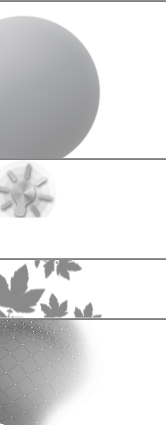
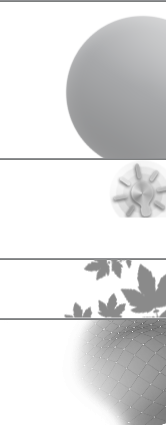
Beta 0.37 - SF settings & graph reversal

diff --git a/Shader Forge/Assets/ShaderForge/Editor/Code/SF_Editor.cs b/Shader Forge/Assets/ShaderForge/Editor/Code/SF_Editor.cs
@@ -855,8 +855,10 @@ namespace ShaderForge {
 			pRect.x = separatorLeft.rect.x + separatorLeft.rect.width;
 
 
-
-			pRect.width = separatorRight.rect.x - separatorLeft.rect.x - separatorLeft.rect.width;
+			if(SF_Settings.ShowNodeSidebar)
+				pRect.width = separatorRight.rect.x - separatorLeft.rect.x - separatorLeft.rect.width;
+			else
+				pRect.width = Screen.width - separatorLeft.rect.x - separatorLeft.rect.width;
 			//GUI.Box( new Rect( 300, 0, 512, 32 ), pRect.ToString() );
 
 			if( SF_Debug.nodes ) {
@@ -886,16 +888,19 @@ namespace ShaderForge {
 			//pRect.x += pRect.width;
 			//pRect.width = wSeparator;
 			//VerticalSeparatorDraggable(ref rightWidth, pRect );
+			if(SF_Settings.ShowNodeSidebar){
+				separatorRight.MinX = (int)fullRect.width - 150;
+				separatorRight.MaxX = (int)fullRect.width - 32;
+				separatorRight.Draw( (int)pRect.y, (int)pRect.height );
 
-			separatorRight.MinX = (int)fullRect.width - 150;
-			separatorRight.MaxX = (int)fullRect.width - 32;
-			separatorRight.Draw( (int)pRect.y, (int)pRect.height );
 
+				pRect.x += pRect.width + separatorRight.rect.width;
+				pRect.width = fullRect.width - separatorRight.rect.x - separatorRight.rect.width;
 
-			pRect.x += pRect.width + separatorRight.rect.width;
-			pRect.width = fullRect.width - separatorRight.rect.x - separatorRight.rect.width;
-			SF_GUI.FillBackground( pRect );
-			nodeBrowser.OnLocalGUI( pRect );
+				SF_GUI.FillBackground( pRect );
+				nodeBrowser.OnLocalGUI( pRect );
+			}
+
 
 
 
@@ -1825,8 +1830,10 @@ namespace ShaderForge {
 				SF_Settings.DrawNodePreviews = GUI.Toggle( btnRect, SF_Settings.DrawNodePreviews, "Auto-Update Node Previews" );
 				btnRect = btnRect.MovedDown();
 				SF_Settings.QuickPickWithWheel = GUI.Toggle( btnRect, SF_Settings.QuickPickWithWheel, "Use scroll in the quickpicker" );
-
-
+				btnRect = btnRect.MovedDown();
+				SF_Settings.ShowVariableSettings = GUI.Toggle( btnRect, SF_Settings.ShowVariableSettings, "Show variable name & precision" );
+				btnRect = btnRect.MovedDown();
+				SF_Settings.ShowNodeSidebar = GUI.Toggle( btnRect, SF_Settings.ShowNodeSidebar, "Show node browser panel" );
 				btnRect.y += 4;
 			}
 

diff --git a/Shader Forge/Assets/ShaderForge/Editor/Code/_Utility/GUILines.cs b/Shader Forge/Assets/ShaderForge/Editor/Code/_Utility/GUILines.cs
@@ -140,7 +140,7 @@ namespace ShaderForge {
 			Vector2 start = startCon.GetConnectionPoint();
 			Vector2 end = endCon.GetConnectionPoint();
 
-			bool reversed = (start.x > end.x);
+			bool reversed = (start.x < end.x);
 
 			Vector2[] points;
 
@@ -183,8 +183,8 @@ namespace ShaderForge {
 				Vector2 tangentVec = new Vector2(tangentMag, 0f);
 
 
-				Vector2 bAp1 = bAp0 + tangentVec; 			// Start Tangent
-				Vector2 bAp2 = bAp3 + tangentVec; 			// End Tangent
+				Vector2 bAp1 = bAp0 - tangentVec; 			// Start Tangent
+				Vector2 bAp2 = bAp3 - tangentVec; 			// End Tangent
 
 
 				for(int i=0;i<pCount;i++){
@@ -200,8 +200,8 @@ namespace ShaderForge {
 				tangentMag = Mathf.Abs(bBp0.y-bBp3.y)*mul; // TODO: Scale based on length if smaler than something
 				tangentVec = new Vector2(tangentMag, 0f);
 
-				Vector2 bBp1 = bBp0 - tangentVec; 			// Start Tangent
-				Vector2 bBp2 = bBp3 - tangentVec; 			// End Tangent
+				Vector2 bBp1 = bBp0 + tangentVec; 			// Start Tangent
+				Vector2 bBp2 = bBp3 + tangentVec; 			// End Tangent
 
 				for(int i=0;i<pCount;i++){
 					float t = (float)i/(float)segments;
@@ -230,12 +230,12 @@ namespace ShaderForge {
 		public static Vector2 ConnectionBezierOffset( float offset, Vector2 start, Vector2 end, float t){
 
 
-			float mult = (start.x < end.x) ? 1f : 4f;
+			float mult = (start.x > end.x) ? 1f : 4f;
 
 			float xHalfway = Mathf.Abs(end.x-start.x)*0.5f * mult;
 
-			Vector2 p1 = new Vector2(start.x+xHalfway, start.y);
-			Vector2 p2 = new Vector2(end.x-xHalfway, end.y);
+			Vector2 p1 = new Vector2(start.x-xHalfway, start.y);
+			Vector2 p2 = new Vector2(end.x+xHalfway, end.y);
 			return CubicBezierOffset(offset, start, p1, p2, end, t);
 		}
 
@@ -393,12 +393,12 @@ namespace ShaderForge {
 			Vector2 p0t = p0;
 			Vector2 p1t = p1;
 
-			bool reversed = p0.x > p1.x;
+			bool reversed = p0.x < p1.x;
 
 			float hDist = Mathf.Max( 20f, Mathf.Abs( p0.x - p1.x ) * 0.5f );
 
-			p0t.x = p0.x + hDist;
-			p1t.x = p1.x - hDist;
+			p0t.x = p0.x - hDist;
+			p1t.x = p1.x + hDist;
 
 			int segments = 25;
 

diff --git a/Shader Forge/Assets/ShaderForge/Editor/Code/SF_Settings.cs b/Shader Forge/Assets/ShaderForge/Editor/Code/SF_Settings.cs
@@ -12,8 +12,13 @@ namespace ShaderForge {
 		AutoCompile, 			// bool	True/False
 		HierarchalNodeMove, 	// bool	True/False
 		DrawNodePreviews,		// bool	True/False
-		QuickPickScrollWheel	// bool	True/False
+		QuickPickScrollWheel,	// bool	True/False
+		ControlMode,			// int	Shader Forge / Unity / Unreal
+		ShowVariableSettings,	// bool True/False
+		ShowNodeSidebar			// bool True/False
 	};
+
+	public enum ControlMode{ShaderForge, UnityMaya, Unreal};
 
 	public class SF_Settings {
 
@@ -21,6 +26,7 @@ namespace ShaderForge {
 		public const string suffixDefault = "_default";
 
 		public SF_Settings() {
+
 		}
 
 		public static void InitializeSettings() {
@@ -30,7 +36,9 @@ namespace ShaderForge {
 			SetDefaultBool( SF_Setting.HierarchalNodeMove, 	 false 								);
 			SetDefaultBool( SF_Setting.DrawNodePreviews, 	 true 								);
 			SetDefaultBool( SF_Setting.QuickPickScrollWheel, true 								);
-
+			SetDefaultInt ( SF_Setting.ControlMode, 		 (int)ControlMode.ShaderForge 		);
+			SetDefaultBool( SF_Setting.ShowVariableSettings, false								);
+			SetDefaultBool( SF_Setting.ShowNodeSidebar, 	 true								);
 		}
 
 
@@ -55,14 +63,25 @@ namespace ShaderForge {
 			set { SF_Settings.SetInt(SF_Setting.CurveShape, (int)value); }
 		}
 
+		public static ControlMode ControlMode {
+			get { return (ControlMode)SF_Settings.LoadInt(SF_Setting.ControlMode);}
+			set { SF_Settings.SetInt(SF_Setting.ControlMode, (int)value); }
+		}
+
 		public static bool QuickPickWithWheel {
 			get { return LoadBool(SF_Setting.QuickPickScrollWheel); }
 			set { SetBool(SF_Setting.QuickPickScrollWheel, value); }
 		}
 
+		public static bool ShowVariableSettings {
+			get { return LoadBool(SF_Setting.ShowVariableSettings); }
+			set { SetBool(SF_Setting.ShowVariableSettings, value); }
+		}
 
-
-
+		public static bool ShowNodeSidebar {
+			get { return LoadBool(SF_Setting.ShowNodeSidebar); }
+			set { SetBool(SF_Setting.ShowNodeSidebar, value); }
+		}
 
 
 

diff --git a/Shader Forge/Assets/ShaderForge/Editor/Code/SF_NodeConnector.cs b/Shader Forge/Assets/ShaderForge/Editor/Code/SF_NodeConnector.cs
@@ -733,7 +733,7 @@ namespace ShaderForge {
 		}
 
 		public Vector2 GetConnectionPoint() {
-			if( conType == ConType.cInput )
+			if( conType == ConType.cOutput )
 				return new Vector2( rect.xMax, rect.center.y );
 			else
 				return new Vector2( rect.xMin+1, rect.center.y );
@@ -1042,7 +1042,7 @@ namespace ShaderForge {
 
 			rect = new Rect( pos.x, pos.y, defaultConnectorWidth, 14 );
 
-			if( conType == ConType.cOutput ) {
+			if( conType == ConType.cInput ) {
 				rect.xMin -= node.extraWidthOutput;
 			} else {
 				rect.width += node.extraWidthInput;
@@ -1058,7 +1058,7 @@ namespace ShaderForge {
 				
 
 
-			if( conType == ConType.cOutput ) {
+			if( conType == ConType.cInput ) {
 				rect.x -= node.rect.width + rect.width - node.extraWidthOutput;
 			}
 
@@ -1093,7 +1093,7 @@ namespace ShaderForge {
 
 			if( HasErrors() && !(Hovering(true) && CanValidlyConnectTo(SF_NodeConnector.pendingConnectionSource)) ) {
 				Rect iconRect = new Rect( rect );
-				iconRect.x += iconRect.width;
+				iconRect.x -= SF_Styles.IconErrorSmall.width ;
 				iconRect.height = iconRect.width = 16;
 				iconRect.y -= 1;
 				GUI.DrawTexture( iconRect, SF_Styles.IconErrorSmall );
@@ -1125,7 +1125,8 @@ namespace ShaderForge {
 
 			if( outerLabel ) {
 				labelRect.width = node.rect.width;
-				labelRect.x -= EditorStyles.miniLabel.CalcSize( new GUIContent( label ) ).x + 4;
+				//labelRect.x -= EditorStyles.miniLabel.CalcSize( new GUIContent( label ) ).x + 4;
+				labelRect.x += rect.width + 4;
 			}
 
 

diff --git a/Shader Forge/Assets/ShaderForge/Editor/Code/SF_EditorNodeView.cs b/Shader Forge/Assets/ShaderForge/Editor/Code/SF_EditorNodeView.cs
@@ -784,7 +784,12 @@ namespace ShaderForge {
 			if(connecting){
 				// Pan camera when cursor nears edges while making a connection
 				Vector2 mousePosInNodeViewScreenSpace = ZoomSpaceToScreenSpace(Event.current.mousePosition) - Vector2.right*editor.separatorLeft.rect.xMax;
-				float areaWidth = editor.separatorRight.rect.xMin - editor.separatorLeft.rect.xMax;
+
+				float areaWidth;
+				if(SF_Settings.ShowNodeSidebar)
+					areaWidth = editor.separatorRight.rect.xMin - editor.separatorLeft.rect.xMax;
+				else
+					areaWidth = Screen.width - editor.separatorLeft.rect.xMax;
 				float areaHeight = editor.nodeView.rect.height;
 				float dragPanMargin = 32f;
 				float panSpeed = 0.2f;
